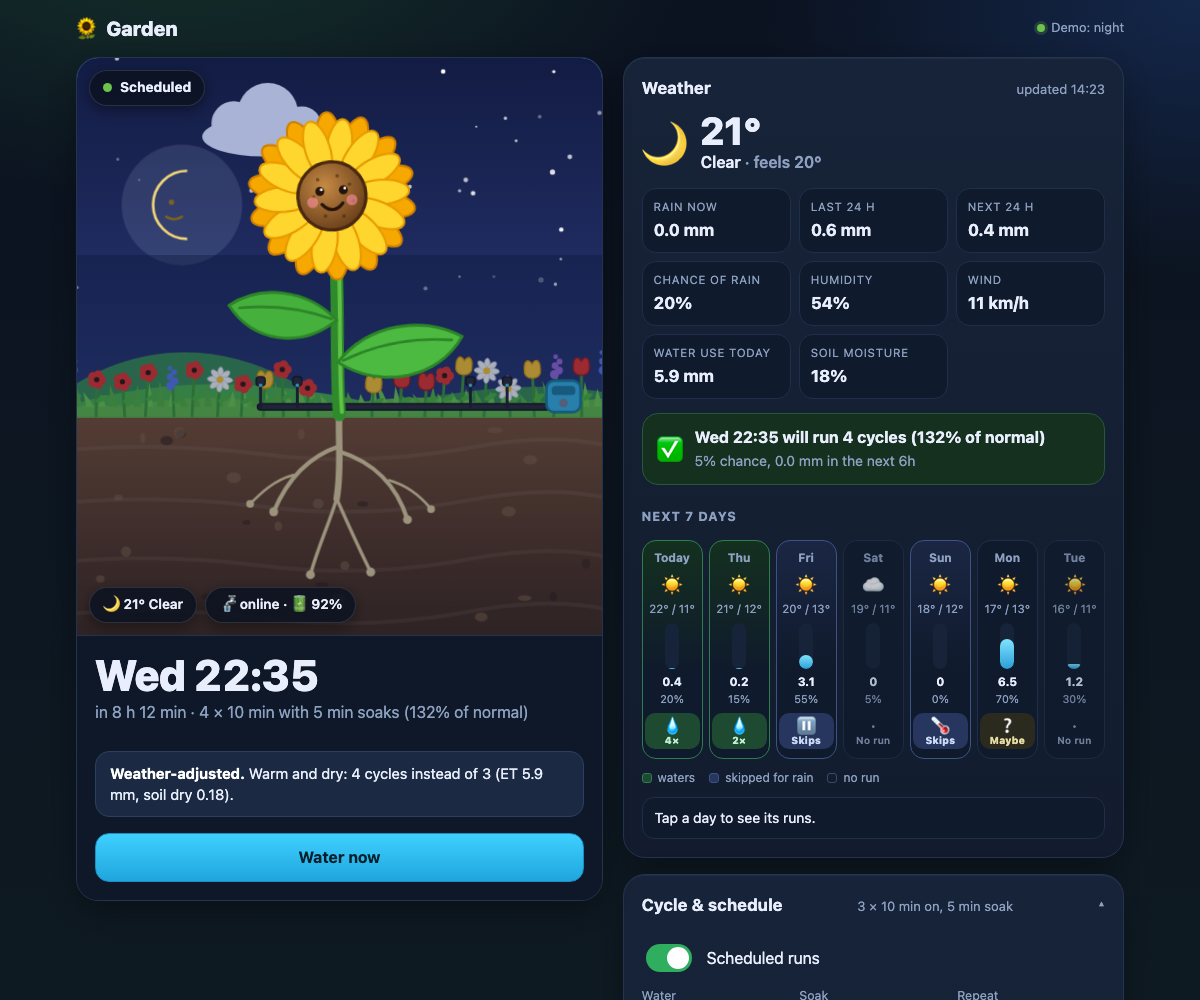
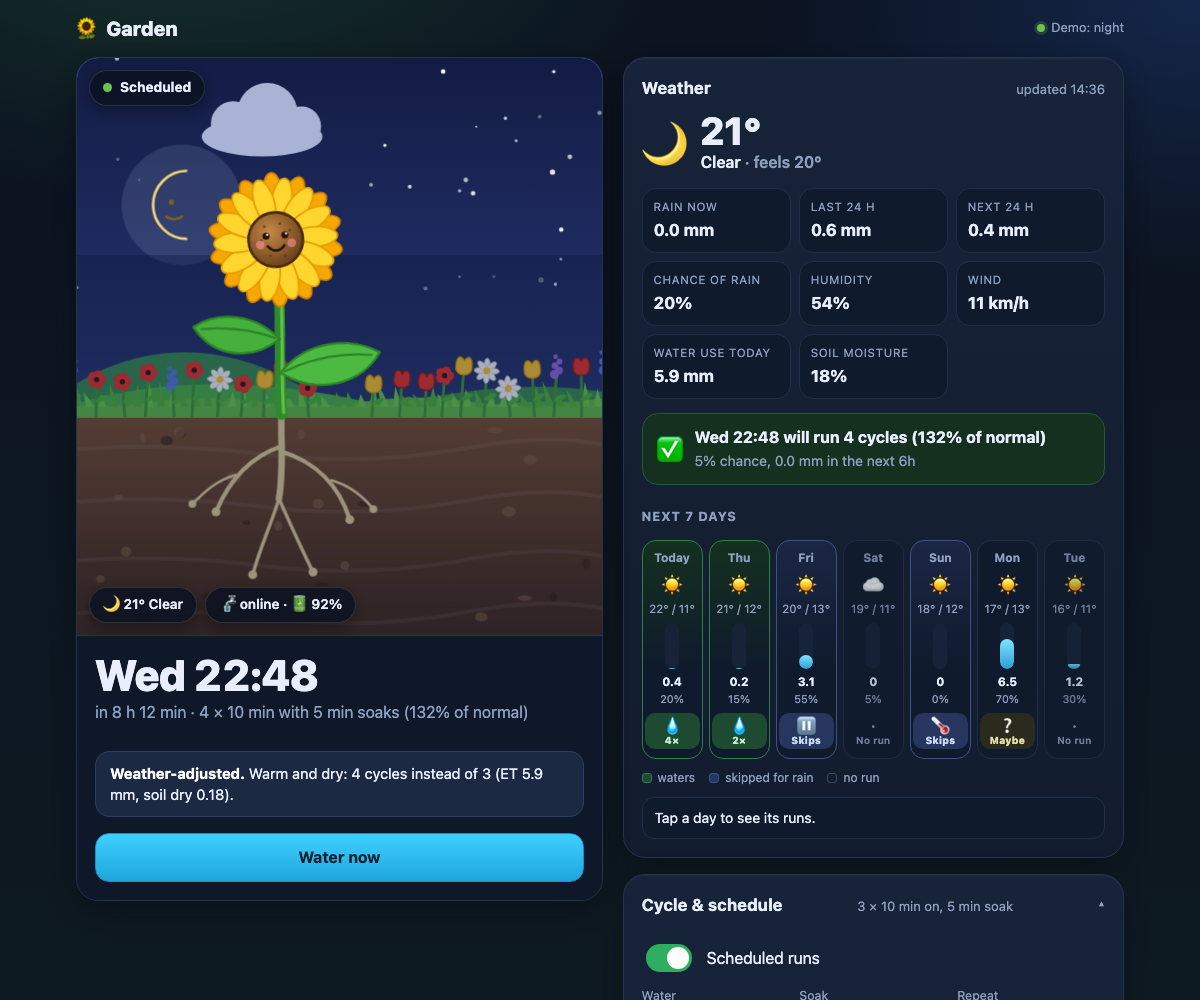
fix(ui): 🐛 bring back the robot, make it bigger
Restore the watering-can robot and make it larger. The sunflower is
smaller and sits further left so the robot fits and the water still lands
on it. Screenshots retaken.

diff --git a/worker/public/index.html b/worker/public/index.html
@@ -84,7 +84,7 @@
             <rect class="moist-top" x="-100" y="270" width="600" height="46" fill="#1a0f0a"/>
             <rect class="moist-deep" x="-100" y="270" width="600" height="190" fill="url(#gMoist)"/>
             <path d="M-100 268 L500 268" stroke="#3c2616" stroke-width="2" opacity=".6"/>
-            <g class="roots">
+            <g transform="translate(-44 0)"><g class="roots">
               <path d="M200 270 C199 292 202 312 198 336" stroke="#e8d5a3" stroke-width="5" fill="none" stroke-linecap="round"/>
               <path d="M200 296 C176 304 160 322 150 346" stroke="#e8d5a3" stroke-width="3.2" fill="none" stroke-linecap="round"/>
               <path d="M200 300 C226 308 244 326 252 352" stroke="#e8d5a3" stroke-width="3.2" fill="none" stroke-linecap="round"/>
@@ -97,28 +97,18 @@
                 <circle cx="224" cy="392" r="3.4"/><circle cx="132" cy="340" r="3"/><circle cx="270" cy="344" r="3"/>
               </g>
             </g>
-            <g class="seep" id="seep"></g>
+            <g class="seep" id="seep"></g></g>
 
             <!-- grass on top of the soil -->
             <path d="M-100 262 Q-60 256 -20 262 T60 262 T140 262 T220 262 T300 262 T380 262 T460 262 L460 274 L-100 274Z" fill="#62c04a"/>
             <g id="blades"></g>
             <g id="bed"></g>
 
-            <!-- drip irrigation: a line from the valve with an emitter at each plant -->
-            <g class="drip">
-              <path d="M360 266 L140 266" stroke="#14141b" stroke-width="6" stroke-linecap="round" fill="none"/>
-              <path d="M360 266 L140 266" stroke="#2d2d3a" stroke-width="3.6" stroke-linecap="round" fill="none"/>
-              <path class="flow" d="M360 266 L140 266" stroke="#4cc9f0" stroke-width="2.4" stroke-linecap="round" stroke-dasharray="6 10" fill="none"/>
-              <path d="M140 266 L140 250" stroke="#22222c" stroke-width="2.2" stroke-linecap="round"/><rect x="136.5" y="243" width="7" height="7" rx="2.6" fill="#2d2d3a" stroke="#14141b" stroke-width="1"/><circle cx="140" cy="249.5" r="1.4" fill="#4cc9f0"/><path d="M168 266 L168 250" stroke="#22222c" stroke-width="2.2" stroke-linecap="round"/><rect x="164.5" y="243" width="7" height="7" rx="2.6" fill="#2d2d3a" stroke="#14141b" stroke-width="1"/><circle cx="168" cy="249.5" r="1.4" fill="#4cc9f0"/><path d="M300 266 L300 250" stroke="#22222c" stroke-width="2.2" stroke-linecap="round"/><rect x="296.5" y="243" width="7" height="7" rx="2.6" fill="#2d2d3a" stroke="#14141b" stroke-width="1"/><circle cx="300" cy="249.5" r="1.4" fill="#4cc9f0"/><path d="M328 266 L328 250" stroke="#22222c" stroke-width="2.2" stroke-linecap="round"/><rect x="324.5" y="243" width="7" height="7" rx="2.6" fill="#2d2d3a" stroke="#14141b" stroke-width="1"/><circle cx="328" cy="249.5" r="1.4" fill="#4cc9f0"/>
-              <rect x="358" y="246" width="26" height="24" rx="6" fill="#39b6ea" stroke="#1d7f9f" stroke-width="2"/>
-              <rect x="362" y="250" width="18" height="7" rx="3" fill="#0f4f6a" opacity=".55"/>
-              <circle class="valve-led" cx="371" cy="263" r="3.2"/>
-            </g>
-
             <!-- night tint over the landscape but under the plant, so the flower keeps its colour -->
             <rect class="fade night-tint" x="-100" y="150" width="600" height="320" fill="#0a1436"/>
 
             <!-- the sunflower -->
+            <g class="plant-size" transform="translate(156 272) scale(.8) translate(-200 -272)">
             <g class="grow"><g class="plant">
               <path d="M200 272 C198 232 203 172 200 128" stroke="#2f8a2b" stroke-width="10" fill="none" stroke-linecap="round"/>
               <path d="M202 270 C200 232 205 172 202 130" stroke="#6bcf4c" stroke-width="3" fill="none" stroke-linecap="round" opacity=".8"/>
@@ -148,6 +138,7 @@
                 </g>
               </g>
             </g></g>
+            </g>
 
             <!-- a bee, for company -->
             <g class="bee"><g class="bee-body">
@@ -157,9 +148,52 @@
               <circle cx="-4.5" cy="-1" r="1" fill="#3a2a0a"/>
             </g></g>
 
-            <!-- drops that fall from each emitter, only while the valve is confirmed open -->
+            <!-- the robot gardener is the valve: it only rolls in and pours while the valve is confirmed open -->
+            <g class="robot"><g class="robot-bob">
+              <g class="arm-far">
+                <path d="M30 -88 L41 -70" stroke="#6f7a91" stroke-width="8" stroke-linecap="round"/>
+                <path d="M41 -70 L46 -50" stroke="#2a2438" stroke-width="12" stroke-linecap="round"/><path d="M41 -70 L46 -50" stroke="#ffcf2a" stroke-width="9" stroke-linecap="round"/>
+                <circle cx="46" cy="-43" r="6.5" fill="#39b6ea" stroke="#2a2438" stroke-width="1.8"/>
+              </g>
+              <rect x="-22" y="-40" width="15" height="32" rx="6" fill="#ffcf2a" stroke="#2a2438" stroke-width="1.8"/><rect x="7" y="-40" width="15" height="32" rx="6" fill="#ffcf2a" stroke="#2a2438" stroke-width="1.8"/>
+              <circle cx="-14.5" cy="-24" r="4.5" fill="#6f7a91" stroke="#2a2438" stroke-width="1.5"/><circle cx="14.5" cy="-24" r="4.5" fill="#6f7a91" stroke="#2a2438" stroke-width="1.5"/>
+              <rect x="-27" y="-13" width="21" height="13" rx="6" fill="#39b6ea" stroke="#2a2438" stroke-width="1.8"/><rect x="6" y="-13" width="21" height="13" rx="6" fill="#39b6ea" stroke="#2a2438" stroke-width="1.8"/>
+              <rect x="-33" y="-104" width="66" height="68" rx="29" fill="#ffcf2a" stroke="#2a2438" stroke-width="2"/>
+              <path d="M-31 -62 Q0 -50 31 -62 Q32 -38 0 -36 Q-32 -38 -31 -62Z" fill="#39b6ea"/>
+              <path d="M-32 -78 Q0 -60 32 -78" stroke="#e5373c" stroke-width="5" fill="none" stroke-linecap="round"/>
+              <circle cx="0" cy="-52" r="8.5" fill="#a8ecff" stroke="#e8c33a" stroke-width="2.6"/><circle cx="-2.5" cy="-54.5" r="2.4" fill="#fff" opacity=".8"/>
+              <rect x="-17" y="-112" width="34" height="9" rx="4" fill="#6f7a91" stroke="#2a2438" stroke-width="1.6"/>
+              <g class="robot-head">
+                <g class="antenna a1"><path d="M-13 -149 L-19 -166" stroke="#6f7a91" stroke-width="2.6" stroke-linecap="round"/><circle cx="-19" cy="-167" r="3.6" fill="#e5373c" stroke="#2a2438" stroke-width="1.4"/></g>
+                <g class="antenna a2"><path d="M13 -149 L19 -166" stroke="#6f7a91" stroke-width="2.6" stroke-linecap="round"/><circle cx="19" cy="-167" r="3.6" fill="#e5373c" stroke="#2a2438" stroke-width="1.4"/></g>
+                <rect x="-27" y="-152" width="54" height="46" rx="22" fill="#ffcf2a" stroke="#2a2438" stroke-width="2"/>
+                <path d="M-18 -146 Q0 -156 18 -146 L16 -141 Q0 -149 -16 -141Z" fill="#39b6ea"/>
+                <circle cx="-28" cy="-128" r="7.5" fill="#6f7a91" stroke="#2a2438" stroke-width="1.6"/><circle cx="-28" cy="-128" r="3" fill="#e5373c"/>
+                <circle cx="28" cy="-128" r="7.5" fill="#6f7a91" stroke="#2a2438" stroke-width="1.6"/><circle cx="28" cy="-128" r="3" fill="#e5373c"/>
+                <rect x="-20" y="-141" width="40" height="29" rx="13" fill="#12121c" stroke="#2a2438" stroke-width="1.4"/>
+                <path d="M-14 -136 Q-6 -139 2 -137" stroke="#fff" stroke-width="1.8" fill="none" stroke-linecap="round" opacity=".35"/>
+                <g class="robot-eyes"><rect x="-11" y="-132" width="7" height="11" rx="3.5" fill="#2fd2ff"/><rect x="4" y="-132" width="7" height="11" rx="3.5" fill="#2fd2ff"/></g>
+                <path d="M-6 -118 Q0 -113.5 6 -118" stroke="#2fd2ff" stroke-width="2.2" fill="none" stroke-linecap="round"/>
+              </g>
+              <!-- the arm that holds the can -->
+              <path d="M-30 -88 L-47 -93" stroke="#6f7a91" stroke-width="8" stroke-linecap="round"/>
+              <circle cx="-47" cy="-93" r="4.5" fill="#6f7a91" stroke="#2a2438" stroke-width="1.5"/>
+              <g class="robot-can">
+                <path d="M34 -12 C 64 -24, 68 24, 31 26" stroke="#1d7f74" stroke-width="7" fill="none" stroke-linecap="round"/>
+                <path d="M-33 12 L-64 -14 L-58 -22 L-28 0Z" fill="#2ba597" stroke="#1d7f74" stroke-width="2" stroke-linejoin="round"/>
+                <g transform="translate(-64 -17) rotate(-48)"><rect x="-7" y="-10" width="8" height="20" rx="2.5" fill="#23988b" stroke="#1d7f74" stroke-width="2"/><circle cx="-2" cy="-5" r="1" fill="#0f4f49"/><circle cx="-2" cy="0" r="1" fill="#0f4f49"/><circle cx="-2" cy="5" r="1" fill="#0f4f49"/></g>
+                <path d="M-34 -20 L34 -20 Q41 -20 39 -12 L33 31 Q32 37 26 37 L-26 37 Q-32 37 -33 31 L-39 -12 Q-41 -20 -34 -20Z" fill="url(#gCan)" stroke="#1d7f74" stroke-width="2.5" stroke-linejoin="round"/>
+                <ellipse cx="0" cy="-20" rx="34" ry="7" fill="#1d7f74"/><ellipse cx="0" cy="-20" rx="29" ry="4.8" fill="#0f4f49"/><ellipse cx="0" cy="-19.2" rx="26" ry="3.4" fill="#4cc9f0"/>
+                <path d="M-26 -10 L-21 28" stroke="#fff" stroke-width="4" opacity=".28" stroke-linecap="round"/>
+              </g>
+              <path d="M-47 -93 L-62 -87" stroke="#2a2438" stroke-width="12" stroke-linecap="round"/><path d="M-47 -93 L-62 -87" stroke="#ffcf2a" stroke-width="9" stroke-linecap="round"/>
+              <circle cx="-66" cy="-84" r="6.5" fill="#39b6ea" stroke="#2a2438" stroke-width="1.8"/>
+            </g></g>
+
+            <!-- water that falls from the can -->
             <g class="pour">
-              <g id="drops"></g>
+              <path class="stream" d="M216 200 Q206 222 198 268" stroke="#4cc9f0" stroke-width="3.5" fill="none" stroke-linecap="round" opacity=".85"/>
+              <g id="drops" transform="translate(172 188)"></g>
               <g id="splashes"></g>
             </g>
 

diff --git a/worker/public/style.css b/worker/public/style.css
@@ -282,19 +282,26 @@ button.day { font: inherit; color: inherit; cursor: pointer; }
 .wing { transform-box: fill-box; transform-origin: bottom; animation: flap .12s linear infinite alternate; }
 .w2 { animation-delay: -.06s; }
 
-/* drip line: the valve box lights up and water runs along the tube while the valve is confirmed open */
-.valve-led { fill: #7b8499; transition: fill .4s ease; }
-.scene[data-valve="watering"] .valve-led { fill: #38e07b; filter: drop-shadow(0 0 3px #38e07b); }
-.flow { opacity: 0; transition: opacity .4s ease; animation: flow .8s linear infinite; }
-.scene[data-valve="watering"] .flow { opacity: .95; }
-.scene:not([data-valve="watering"]) .flow { animation-play-state: paused; }
+/* robot gardener: it is the valve, so it only shows up and pours while the valve is confirmed open */
+.robot { opacity: 0; transform: translate(480px, 268px) scale(1.25); transition: opacity .5s ease, transform 1.4s cubic-bezier(.3, 1.2, .5, 1); }
+.scene[data-valve="watering"] .robot { opacity: 1; transform: translate(325px, 268px) scale(1.25); }
+.robot-bob { animation: robotbob 2.4s ease-in-out infinite; }
+.robot-head { transform-origin: 0px -104px; animation: robothead 3.2s ease-in-out infinite alternate; }
+.antenna { transform-box: fill-box; transform-origin: bottom; animation: wig 1.3s ease-in-out infinite alternate; }
+.a2 { animation-delay: -.6s; }
+.robot-eyes { transform-box: fill-box; transform-origin: center; animation: blink 4.6s infinite; }
+.arm-far { transform-origin: 30px -88px; animation: armfar 2.4s ease-in-out infinite alternate; }
+.robot-can { transform: translate(-66px, -84px) rotate(0deg) scale(.46) translate(-62px, 0px); transition: transform 1.1s cubic-bezier(.3, 1.4, .5, 1) .6s; }
+.scene[data-valve="watering"] .robot-can { transform: translate(-66px, -84px) rotate(-24deg) scale(.46) translate(-62px, 0px); }
 
 .pour { opacity: 0; transition: opacity .3s ease; }
 .scene[data-valve="watering"] .pour { opacity: 1; transition: opacity .5s ease 1.3s; }
+.stream { display: none; }
 
 /* flower bed */
 .bloom { animation: bloom 3.6s ease-in-out infinite alternate; }
 .scene[data-wet="on"] .bloom { animation-duration: 1.5s; }
+.drop-x { animation: dropx var(--dur) linear infinite; animation-delay: var(--delay); }
 .drop-y { animation: dropy var(--dur) cubic-bezier(.45, 0, 1, 1) infinite; animation-delay: var(--delay); fill: #4cc9f0; stroke: #d7f6ff; stroke-width: .8; }
 .splash { transform-box: fill-box; transform-origin: center; fill: none; stroke: #bff0ff; stroke-width: 1.6; opacity: 0; animation: splash var(--dur) linear infinite; animation-delay: var(--delay); }
 .scene:not([data-valve="watering"]) .pour * { animation-play-state: paused; }
@@ -321,8 +328,12 @@ button.day { font: inherit; color: inherit; cursor: pointer; }
 @keyframes drift { from { transform: translateX(-200px); } to { transform: translateX(640px); } }
 @keyframes bank { from { transform: translateX(-14px); } to { transform: translateX(14px); } }
 @keyframes bloom { from { transform: rotate(-4deg); } to { transform: rotate(4deg); } }
+@keyframes robotbob { 0%, 100% { transform: translateY(0); } 50% { transform: translateY(-2.5px); } }
+@keyframes robothead { from { transform: rotate(-3deg); } to { transform: rotate(3deg); } }
+@keyframes wig { from { transform: rotate(-9deg); } to { transform: rotate(9deg); } }
+@keyframes armfar { from { transform: rotate(-5deg); } to { transform: rotate(5deg); } }
 @keyframes bob { 0%, 100% { transform: translateY(0); } 50% { transform: translateY(-3px); } }
-@keyframes flow { to { stroke-dashoffset: -16; } }
+@keyframes dropx { from { transform: translateX(0); } to { transform: translateX(var(--dx)); } }
 @keyframes dropy { 0% { transform: translateY(0); opacity: 0; } 8% { opacity: 1; } 92% { opacity: 1; } 100% { transform: translateY(var(--fall)); opacity: 0; } }
 @keyframes splash { 0%, 84% { opacity: 0; transform: scale(.2); } 86% { opacity: .95; } 100% { opacity: 0; transform: scale(1.9); } }
 @keyframes streak { 0% { transform: translate(0, 0); opacity: 0; } 10% { opacity: .75; } 90% { opacity: .75; } 100% { transform: translate(-26px, 205px); opacity: 0; } }

diff --git a/worker/public/app.js b/worker/public/app.js
@@ -76,17 +76,16 @@ function buildScene() {
   for (let i = 0; i < 26; i++) {
     el("ellipse", { cx: rand() * 400, cy: 282 + rand() * 150, rx: 2 + rand() * 4, ry: 1.6 + rand() * 3, fill: rand() > 0.5 ? "#8c6a4d" : "#33211a", opacity: 0.55 }, soil);
   }
-  // slow drips from each emitter: they fall straight down onto the soil and ripple where they land
-  [140, 168, 300, 328].forEach((ex, n) => {
-    for (let k = 0; k < 2; k++) {
-      const dur = 1.15 + n * 0.07;
-      const delay = -(dur * k / 2 + n * 0.23);
-      const at = el("g", { transform: `translate(${ex} 247)` }, $("drops"));
-      const y = el("g", { class: "drop-y", style: `--dur:${dur}s;--delay:${delay}s;--fall:19px` }, at);
-      el("use", { href: "#drop", transform: "scale(.7)" }, y);
-      el("ellipse", { class: "splash", cx: ex, cy: 267, rx: 6, ry: 1.8, style: `--dur:${dur}s;--delay:${delay}s` }, $("splashes"));
-    }
-  });
+  // water thrown from the can's spout on a curved path: x is linear, y accelerates
+  for (let i = 0; i < 14; i++) {
+    const dx = -(6 + ((i * 7) % 30));
+    const dur = 0.7 + (i % 4) * 0.06;
+    const delay = -(i * 0.09);
+    const x = el("g", { class: "drop-x", style: `--dx:${dx}px;--dur:${dur}s;--delay:${delay}s` }, $("drops"));
+    const y = el("g", { class: "drop-y", style: `--dur:${dur}s;--delay:${delay}s;--fall:81px` }, x);
+    el("use", { href: "#drop", transform: `scale(${0.75 + (i % 3) * 0.2})` }, y);
+    el("ellipse", { class: "splash", cx: 172 + dx, cy: 269, rx: 8, ry: 2.4, style: `--dur:${dur}s;--delay:${delay}s` }, $("splashes"));
+  }
   // falling rain
   for (let i = 0; i < 34; i++) {
     const g = el("g", { transform: `translate(${(i * 13.7) % 430} 56)` }, $("streaks"));

diff --git a/README.md b/README.md
@@ -111,9 +111,9 @@ The diagram is pinned to this repository on GitHub, so every source reference li
 An animated cartoon garden follows the controller, not the buttons you press:
 
 - **Idle**: a sunflower swaying under the real sky (sun, moon and stars, clouds, bee), and the next watering time.
-- **Watering**: the drip line along the ground lights up, water runs down the tube and drips from each emitter, but only
-  once the controller has confirmed the valve open. The valve box at the end of the line shows a green light while open. Clicking "Water now" changes nothing on screen until the run state comes back.
-- **Soaking**: the drips stop, the view slides down to the soil, and droplets seep towards the roots while the moisture
+- **Watering**: a little robot gardener rolls in and tilts its watering can over the sunflower, but only once the
+  controller has confirmed the valve open. Clicking "Water now" changes nothing on screen until the run state comes back.
+- **Soaking**: the robot leaves, the view slides down to the soil, and droplets seep towards the roots while the moisture
   spreads in step with the soak countdown.
 - **Rain**: rain falls only when it is raining now (from the current conditions), with puddles and a darker sky. A rain
   *forecast* on a sunny day only shows the "Rain delay active" notice and why.
